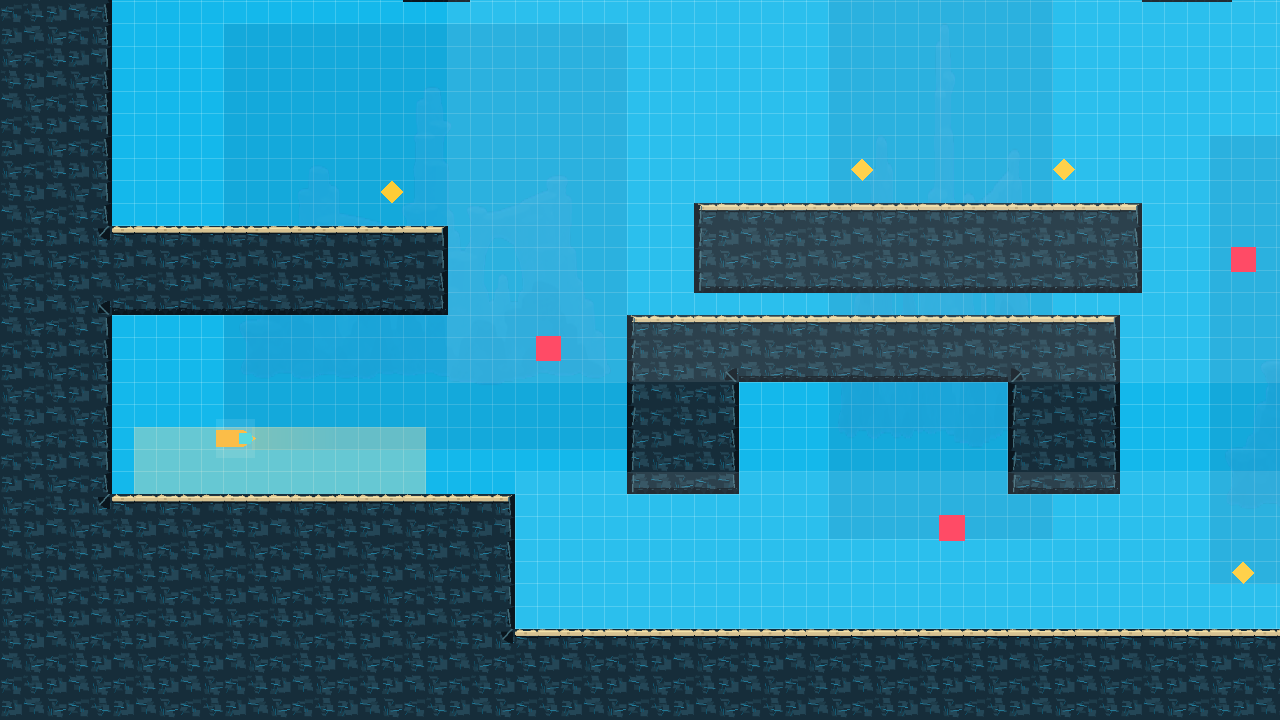
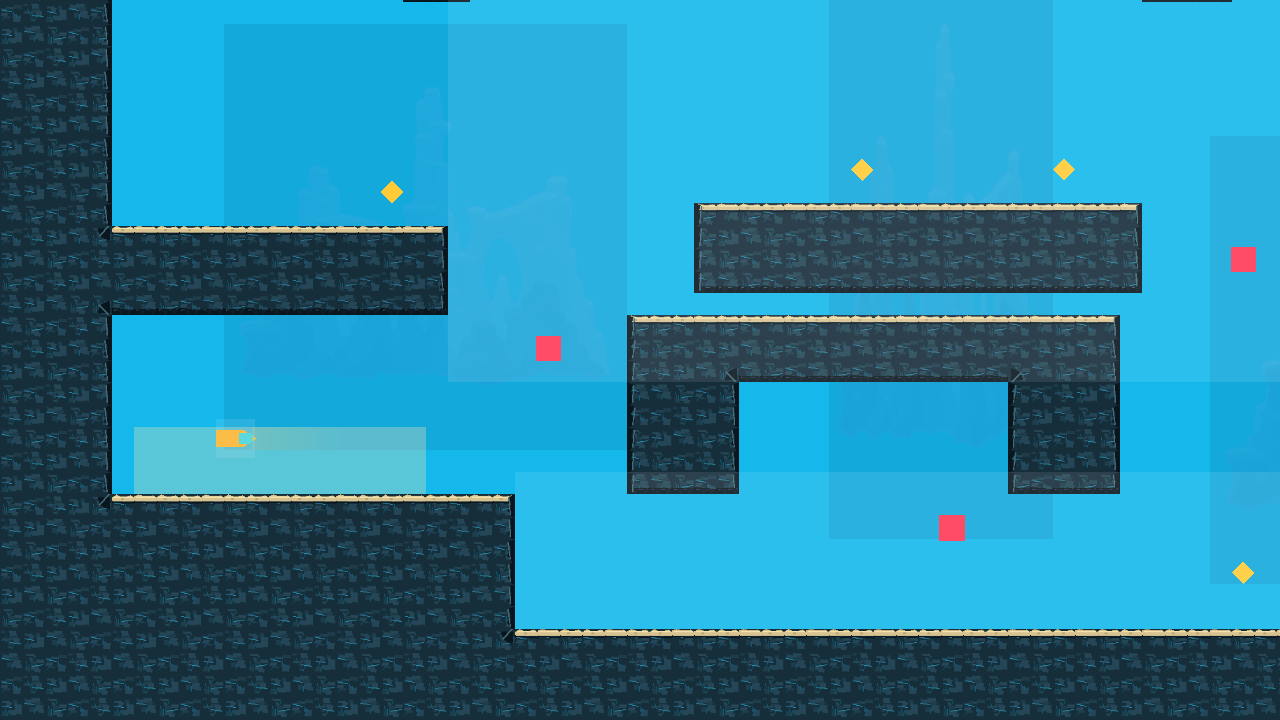
Fix web preview cave terrain rendering
Closes #11

diff --git a/docs/current/TOOLING.md b/docs/current/TOOLING.md
@@ -60,6 +60,7 @@ Capture the current named camera test views:
 ```
 
 This reads `camera_tests` from `maps/cave_salvage_test_01.greybox.json` and writes PNGs to `visual_captures/latest/`.
+Normal gameplay and capture views hide the greybox source grid. Add `--show-debug-overlay` when you specifically need the source TileMap/grid overlay for map debugging.
 
 Capture the organic tileset stress-test views:
 
